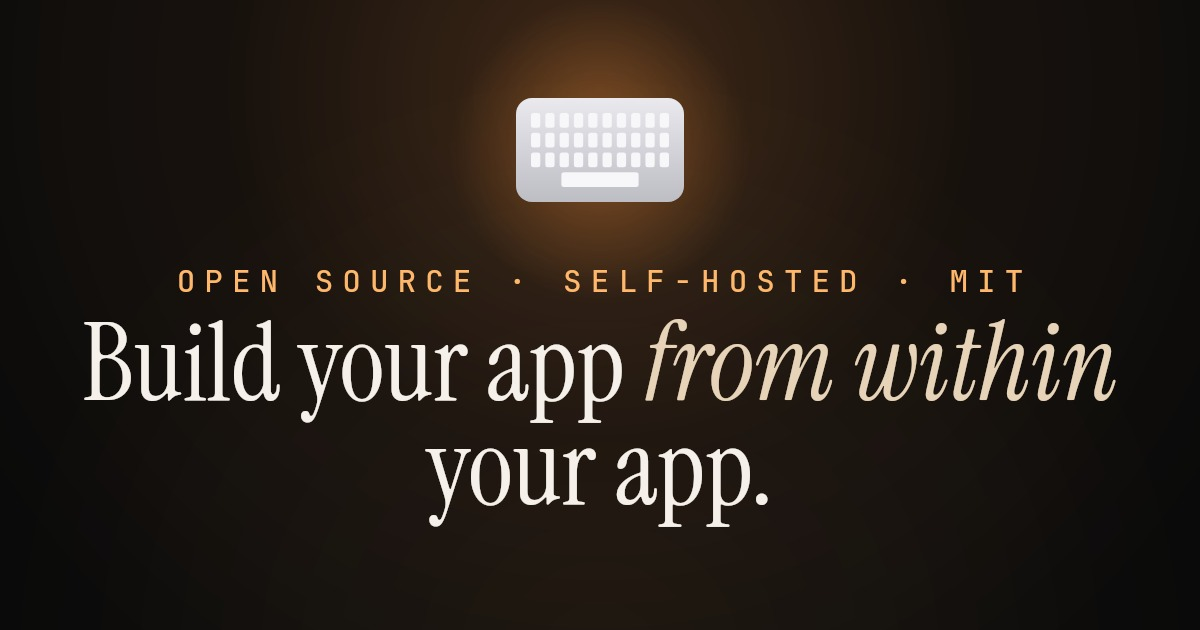
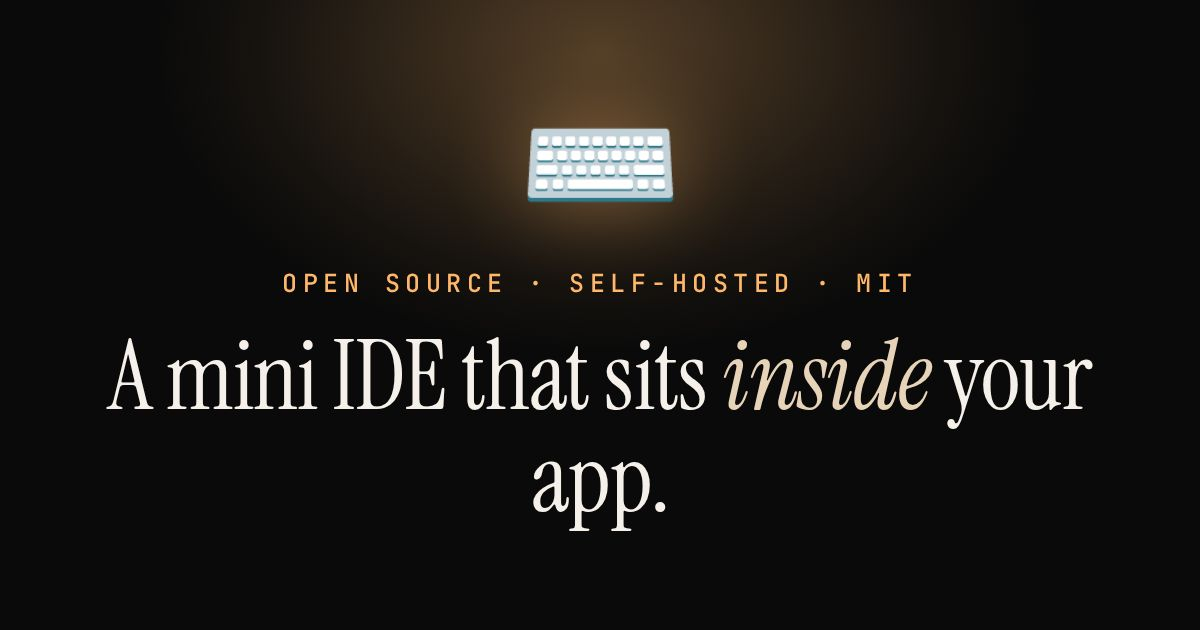
Hero: 'A mini IDE that sits inside your app.'
Promotes the tagline to the headline; the lede now argues the point ("Your IDE
should live inside your app, not the other way around. An IDE for the rest of
us."). The 'ask — typed, dictated, or photographed' mechanic sentence is dropped
from the lede; the demo section right below already shows it. OG card
regenerated for the new headline and the meta URLs bumped to ?v=2 so scrapers
refetch.

Changed region(s): [[0.0617, 0.1508, 0.925, 0.8444], [0.7708, 0.6635, 0.8017, 0.6937], [0.3392, 0.8143, 0.37, 0.8444]]

diff --git a/site/index.html b/site/index.html
@@ -22,8 +22,8 @@
 <meta property="og:title" content="Agent Keyboard" />
 <meta property="og:description" content="Ask for a change, right where you're looking. A real Claude Code session edits your codebase and commits it. Open source, self-hosted, your keys, MIT." />
 <meta property="og:url" content="https://agentkeyboard.com/" />
-<meta property="og:image" content="https://agentkeyboard.com/og-twitter-card.jpg" />
-<meta property="og:image:secure_url" content="https://agentkeyboard.com/og-twitter-card.jpg" />
+<meta property="og:image" content="https://agentkeyboard.com/og-twitter-card.jpg?v=2" />
+<meta property="og:image:secure_url" content="https://agentkeyboard.com/og-twitter-card.jpg?v=2" />
 <meta property="og:image:type" content="image/jpeg" />
 <meta property="og:image:width" content="1200" />
 <meta property="og:image:height" content="630" />
@@ -31,7 +31,7 @@
 <meta name="twitter:card" content="summary_large_image" />
 <meta name="twitter:title" content="Agent Keyboard" />
 <meta name="twitter:description" content="Ask for a change, right where you're looking. A real Claude Code session edits your codebase and commits it. Open source, self-hosted, your keys, MIT." />
-<meta name="twitter:image" content="https://agentkeyboard.com/og-twitter-card.jpg" />
+<meta name="twitter:image" content="https://agentkeyboard.com/og-twitter-card.jpg?v=2" />
 <meta name="twitter:image:alt" content="Agent Keyboard prompt bar editing a live app" />
 
 <link rel="preconnect" href="https://fonts.googleapis.com">
@@ -278,9 +278,9 @@ footer .meta a:hover{ color:var(--amber); }
   <header class="hero">
     <div class="kbd" aria-hidden="true">⌨</div>
     <div class="eyebrow">OPEN SOURCE · SELF-HOSTED · MIT</div>
-    <h1>Build your app <em>from within</em> your app.</h1>
-    <p class="lede">A mini IDE that sits inside your app. Ask for a change — typed, dictated, or
-      photographed — and a real Claude Code session on your server makes it and commits it.</p>
+    <h1>A mini IDE that sits <em>inside</em> your app.</h1>
+    <p class="lede">Your IDE should live inside your app, not the other way around.
+      An IDE for the rest of us.</p>
 
     <div class="cta-row">
       <button class="btn primary demo-cta" type="button"><span aria-hidden="true">✻</span>Interactive demo</button>
